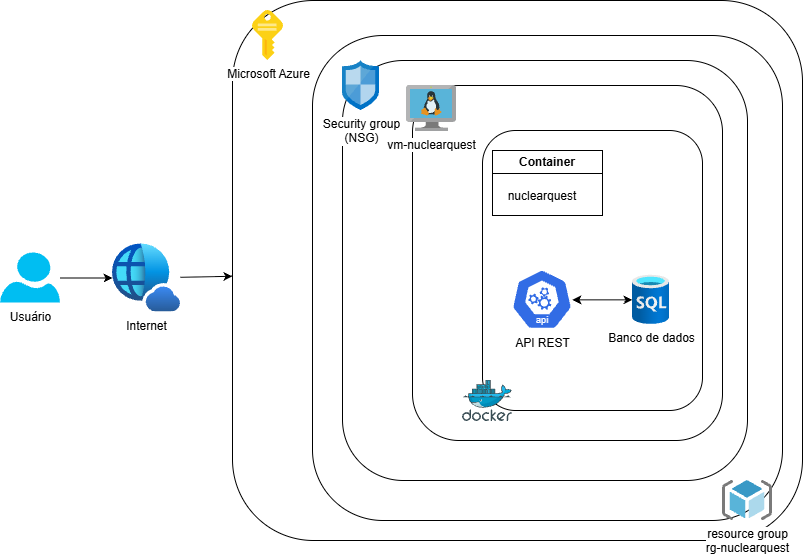
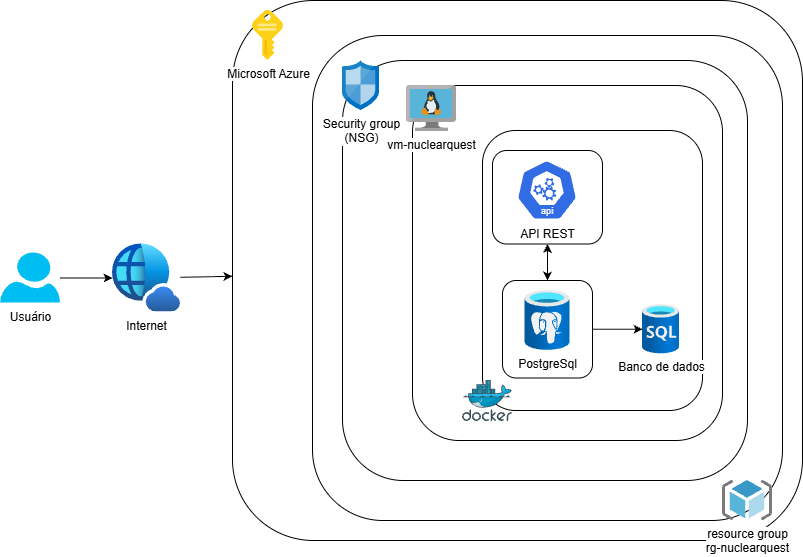
Atualiza documentação e arquitetura Docker

Changed region(s): [[0.6227, 0.4883, 0.8717, 0.702], [0.6227, 0.2747, 0.7472, 0.4578]]

diff --git a/README.md b/README.md
@@ -1,117 +1,199 @@
-NuclearQuest
-Challenge FIAP - AMAZUL
+# NuclearQuest
 
-Integrantes do grupo
-André Souza Matsuda RM 566733 | Guilherme Barca RM 568517 | Guilherme Oliveira RM 566842 | Kaliel Conceição RM 567587 | Paulo Henrique Muniz Diedrich RM 567618 |
+**Challenge FIAP – AMAZUL**
 
-Como Docker e Cloud Computing podem ser utilizados na solução do grupo?
+## Integrantes do grupo
 
-O Docker permite empacotar a aplicação e suas dependências em um container, garantindo maior consistência entre os ambientes de desenvolvimento e execução.
+- André Souza Matsuda – RM 566733
+- Guilherme Barca – RM 568517
+- Guilherme Oliveira – RM 566842
+- Kaliel Conceição – RM 567587
+- Paulo Henrique Muniz Diedrich – RM 567618
 
-O Cloud Computing permite hospedar esse container em uma infraestrutura disponibilizada pela Microsoft Azure, possibilitando que a aplicação seja acessada remotamente pela internet.
-
-Na solução NuclearQuest, o Docker é utilizado para padronizar a execução da API Java, enquanto a máquina virtual Azure fornece o ambiente de hospedagem e acesso externo à aplicação.
-
-Sobre o projeto
+## Sobre o projeto
 
 O NuclearQuest é uma API REST desenvolvida em Java com Spring Boot, voltada para uma plataforma educacional de perguntas e respostas sobre tecnologia nuclear.
 
-Este repositório apresenta a implementação da solução utilizando Docker e Microsoft Azure, permitindo executar a aplicação em uma máquina virtual na nuvem.
+Este repositório apresenta a implementação da solução utilizando Docker, Docker Compose e Microsoft Azure, permitindo executar a aplicação e seu banco de dados em containers hospedados em uma máquina virtual na nuvem.
 
-Arquitetura da solução
+## Como Docker e Cloud Computing são utilizados na solução?
 
-A aplicação é executada em um container Docker hospedado em uma máquina virtual Ubuntu 24.04 na Microsoft Azure.
+O Docker permite empacotar a aplicação e suas dependências em containers, garantindo maior consistência entre os ambientes de desenvolvimento e execução.
 
-O acesso externo é realizado pelo IP público da VM, utilizando a porta 8080.
+O Docker Compose permite gerenciar os serviços da aplicação, incluindo a API e o banco de dados PostgreSQL, além de configurar a comunicação entre eles, as portas e o armazenamento persistente.
 
-O banco de dados H2 está integrado à aplicação e utiliza armazenamento em memória.
+O Cloud Computing permite hospedar esses serviços em uma infraestrutura disponibilizada pela Microsoft Azure, possibilitando o acesso remoto à aplicação pela internet.
+
+## Arquitetura da solução
+
+A solução é composta por dois containers Docker:
+
+- **API:** aplicação Java com Spring Boot, responsável pelas operações e regras de negócio.
+- **Banco de dados:** PostgreSQL, responsável pelo armazenamento das informações.
+
+Os containers se comunicam por meio de uma rede Docker criada pelo Docker Compose.
+
+O banco de dados utiliza um volume nomeado (`nuclearquest-data`), garantindo a persistência dos registros mesmo após a remoção e recriação dos containers.
+
+A aplicação está hospedada em uma máquina virtual Ubuntu 24.04 na Microsoft Azure, com acesso externo pela porta 8080.
 
 ![Arquitetura da solução](docs/arquitetura.png)
 
-Executando com Docker
+## Tecnologias utilizadas
 
-Construir a imagem
+- Java 21
+- Spring Boot
+- Spring Data JPA
+- PostgreSQL 17
+- Docker
+- Docker Compose
+- Microsoft Azure
+- Ubuntu 24.04
 
-Na raiz do projeto, execute:
+## Executando com Docker Compose
 
-docker build -t nuclearquest .
+Na raiz do repositório, execute:
 
-Executar o container
+### Construir e iniciar os serviços
 
-docker run -d --name nuclearquest -p 8080:8080 nuclearquest
+```bash
+docker compose up -d --build
+```
 
-Verificar o container
+### Verificar os containers
 
-docker ps
+```bash
+docker compose ps
+```
 
-Acessar o Swagger
+### Consultar os logs
 
+```bash
+docker compose logs -f
+```
+
+### Parar os serviços
+
+```bash
+docker compose down
+```
+
+**Importante:** o comando `docker compose down` não remove o volume de dados. Para preservar os registros do banco, não utilize a opção `-v`.
+
+## Configurações dos serviços
+
+| Serviço | Configuração |
+|---|---|
+| API | Porta 8080 |
+| PostgreSQL | Porta interna 5432 |
+| Banco de dados | nuclearquest |
+| Usuário do banco | nuclearquest |
+| Rede Docker | nuclearquest-network |
+| Volume persistente | nuclearquest-data |
+
+As credenciais e configurações de conexão são definidas pelas variáveis de ambiente no arquivo `compose.yaml`.
+
+## Banco de dados e dados de teste
+
+O script SQL com os registros de teste está localizado em:
+
+`NuclearQuest/src/main/resources/data.sql`
+
+Após iniciar os containers, execute os comandos abaixo na raiz do projeto para inserir os dados:
+
+```bash
+docker cp NuclearQuest/src/main/resources/data.sql nuclearquest-db:/tmp/data.sql
+```
+
+```bash
+docker compose exec db psql -U nuclearquest -d nuclearquest -f /tmp/data.sql
+```
+
+O script insere registros de categorias, usuários, perguntas, alternativas e respostas de usuários.
+
+## API e operações CRUD
+
+A API disponibiliza operações CRUD para o recurso de perguntas:
+
+| Operação | Método | Endpoint |
+|---|---|---|
+| Criar pergunta | POST | `/perguntas` |
+| Listar perguntas | GET | `/perguntas` |
+| Consultar pergunta por ID | GET | `/perguntas/{id}` |
+| Atualizar pergunta | PUT | `/perguntas/{id}` |
+| Excluir pergunta | DELETE | `/perguntas/{id}` |
+
+A documentação interativa da API é disponibilizada pelo Swagger:
+
+```text
 http://localhost:8080/swagger-ui/index.html
+```
 
-Provisionamento na Microsoft Azure
+## Provisionamento na Microsoft Azure
 
 A infraestrutura foi provisionada utilizando Azure CLI.
 
-Configurações da infraestrutura
+### Configurações da infraestrutura
 
-Recurso
+| Recurso | Configuração |
+|---|---|
+| Resource Group | rg-nuclearquest |
+| Região | Brazil South |
+| Máquina virtual | vm-nuclearquest |
+| Sistema operacional | Ubuntu 24.04 |
+| Tamanho | Standard_D2s_v4 |
+| Usuário administrativo | azureuser |
+| Porta da aplicação | 8080 |
 
-Configuração
-
-Resource Group
-
-rg-nuclearquest
-
-Região
-
-Brazil South
-
-Máquina virtual
-
-vm-nuclearquest
-
-Sistema operacional
-
-Ubuntu 24.04
-
-Tamanho
-
-Standard_D2s_v4
-
-Usuário administrativo
-
-azureuser
-
-Porta da aplicação
-
-8080
-
-Provisionar a infraestrutura
+### Provisionar a infraestrutura
 
 O script de provisionamento está disponível em:
 
-azure/script.sh
+`azure/script.sh`
 
-Para executar em uma assinatura Azure com o Azure CLI configurado:
+Para executá-lo em uma assinatura Azure com o Azure CLI configurado:
 
+```bash
 chmod +x azure/script.sh
-
 ./azure/script.sh
+```
 
-Execução na VM Azure
+### Executar a aplicação na VM Azure
 
-A imagem Docker da aplicação foi transferida para a máquina virtual e carregada com:
+Após acessar a máquina virtual e clonar este repositório, entre na pasta do projeto:
 
-sudo docker load -i nuclearquest.tar
+```bash
+cd Sprint-Amazul-DevOps
+```
 
-O container foi iniciado com:
+Inicie os serviços:
 
-sudo docker run -d --name nuclearquest -p 8080:8080 nuclearquest:latest
+```bash
+docker compose up -d --build
+```
 
-Para verificar a execução:
+Insira os dados de teste utilizando os comandos da seção Banco de dados e dados de teste.
 
-sudo docker ps
+A aplicação poderá ser acessada externamente pelo endereço:
 
-A aplicação pode ser acessada pelo endereço:
-
+```text
 http://IP_PUBLICO_DA_VM:8080/swagger-ui/index.html
+```
+
+## Persistência dos dados
+
+A persistência é realizada por meio do volume Docker `nuclearquest-data`, associado ao serviço PostgreSQL.
+
+Ao executar `docker compose down` e posteriormente `docker compose up -d`, os containers são recriados, mas os dados permanecem armazenados no volume.
+
+Dessa forma, o banco de dados mantém seus registros mesmo após a recriação dos containers.
+
+## Encerramento da infraestrutura
+
+Após a utilização da infraestrutura na Azure, os recursos podem ser removidos por meio do Azure CLI:
+
+```bash
+az group delete --name rg-nuclearquest --yes --no-wait
+```
+
+Esse comando remove o Resource Group e os recursos associados.
